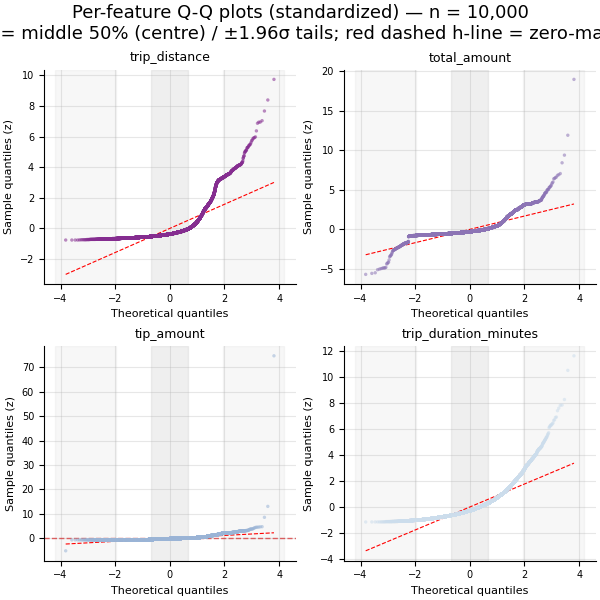
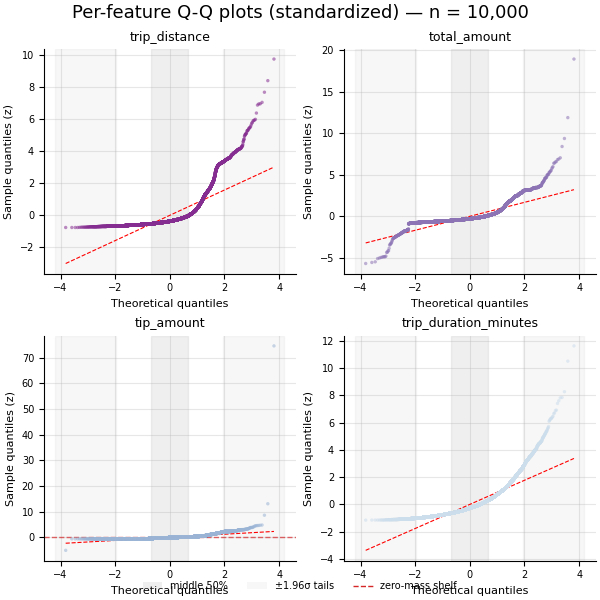
feat(qq): diagnostic zones + symbol legend on all Q-Q surfaces

diff --git a/src/broadway/discover/qq.py b/src/broadway/discover/qq.py
@@ -19,6 +19,8 @@ import matplotlib
 matplotlib.use("Agg")  # headless; set before pyplot import
 import matplotlib.colors
 import matplotlib.pyplot as plt
+from matplotlib.lines import Line2D
+from matplotlib.patches import Patch
 import numpy as np
 import pandas as pd
 from pydantic import BaseModel, ConfigDict
@@ -115,6 +117,39 @@ def _grid_dims(n: int) -> tuple[int, int]:
     return n_rows, n_cols
 
 
+def draw_qq_zones(ax, zones: QqZonesConfig, zero_rate: float | None, draw_shelf: bool = True) -> bool:
+    """Draw central/tail bands and (optionally) the zero-mass shelf. Return True if a shelf was drawn."""
+    if not zones.enabled:
+        return False
+    xmin, xmax = ax.get_xlim()
+    ymin, ymax = ax.get_ylim()
+    ax.axvspan(xmin, -zones.tail_threshold, color=zones.zone_color, alpha=zones.tail_alpha, zorder=0)
+    ax.axvspan(zones.tail_threshold, xmax, color=zones.zone_color, alpha=zones.tail_alpha, zorder=0)
+    ax.axvspan(stats.norm.ppf(zones.central_quantiles[0]), stats.norm.ppf(zones.central_quantiles[1]), color=zones.zone_color, alpha=zones.central_alpha, zorder=0)
+    if draw_shelf and zero_rate is not None and zero_rate > zones.zero_mass_threshold and ymin <= 0 <= ymax:
+        ax.axhline(y=0, color=zones.shelf_color, linestyle="--", linewidth=1, alpha=0.7, zorder=2)
+        return True
+    return False
+
+
+def build_qq_legend_handles(zones: QqZonesConfig, any_shelf: bool) -> list:
+    mid = int((zones.central_quantiles[1] - zones.central_quantiles[0]) * 100)
+    handles = [
+        Patch(facecolor=zones.zone_color, alpha=zones.central_alpha, label=f"middle {mid}%"),
+        Patch(facecolor=zones.zone_color, alpha=zones.tail_alpha, label=f"±{zones.tail_threshold}σ tails"),
+    ]
+    if any_shelf:
+        handles.append(Line2D([0], [0], color=zones.shelf_color, linestyle="--", linewidth=1, label="zero-mass shelf"))
+    return handles
+
+
+def attach_qq_legend(fig, zones: QqZonesConfig, any_shelf: bool) -> None:
+    if not zones.enabled:
+        return
+    handles = build_qq_legend_handles(zones, any_shelf)
+    fig.legend(handles=handles, loc="lower center", ncol=len(handles), fontsize=viz.TICK_FONTSIZE, frameon=False)
+
+
 def _plot_chunk(
     traces: list[tuple[str, np.ndarray, np.ndarray, float, float, float | None]],
     out_path: Path,
@@ -136,6 +171,7 @@ def _plot_chunk(
         layout="constrained",
     )
     ax_flat = axes.ravel()
+    any_shelf = False
     for color, ax, (name, osm, osr, slope, intercept, zero_rate) in zip(colors, ax_flat, traces):
         ax.scatter(
             osm, osr,
@@ -145,8 +181,6 @@ def _plot_chunk(
             color=color,
             zorder=3,
         )
-        xmin, xmax = ax.get_xlim()
-        ymin, ymax = ax.get_ylim()
         xs = np.array([osm.min(), osm.max()])
         ax.plot(
             xs, slope * xs + intercept,
@@ -155,29 +189,7 @@ def _plot_chunk(
             linewidth=viz.QQ_REF_LINE_WIDTH,
             zorder=2,
         )
-        if zones.enabled:
-            ax.axvspan(
-                xmin, -zones.tail_threshold,
-                color=zones.zone_color, alpha=zones.tail_alpha, zorder=0,
-            )
-            ax.axvspan(
-                zones.tail_threshold, xmax,
-                color=zones.zone_color, alpha=zones.tail_alpha, zorder=0,
-            )
-            ax.axvspan(
-                stats.norm.ppf(zones.central_quantiles[0]),
-                stats.norm.ppf(zones.central_quantiles[1]),
-                color=zones.zone_color, alpha=zones.central_alpha, zorder=0,
-            )
-            if (
-                zero_rate is not None
-                and zero_rate > zones.zero_mass_threshold
-                and ymin <= 0 <= ymax
-            ):
-                ax.axhline(
-                    y=0, color=zones.shelf_color,
-                    linestyle="--", linewidth=1, alpha=0.7, zorder=2,
-                )
+        any_shelf = draw_qq_zones(ax, zones, zero_rate) or any_shelf
         ax.set_xlabel(viz.QQ_XLABEL, fontsize=viz.LABEL_FONTSIZE)
         ax.set_ylabel(viz.QQ_YLABEL, fontsize=viz.LABEL_FONTSIZE)
         ax.set_title(name, fontsize=viz.TITLE_FONTSIZE)
@@ -186,12 +198,11 @@ def _plot_chunk(
         viz.despine(ax)
     for ax in ax_flat[n:]:
         ax.set_visible(False)
+    attach_qq_legend(fig, zones, any_shelf)
     title = "Per-feature Q-Q plots (standardized)"
     if n_figs > 1:
         title += f" - figure {fig_num} of {n_figs}"
     title += f" — n = {n_rows:,}"
-    mid = int((zones.central_quantiles[1] - zones.central_quantiles[0]) * 100)
-    title += f"\nshaded = middle {mid}% (centre) / ±{zones.tail_threshold}σ tails; red dashed h-line = zero-mass shelf"
     fig.suptitle(title, fontsize=viz.SUPTITLE_FONTSIZE)
     fig.savefig(out_path, dpi=dpi)
     plt.close(fig)

diff --git a/src/broadway/timeline/runners.py b/src/broadway/timeline/runners.py
@@ -18,6 +18,7 @@ from broadway.analysis.contracts import AnalysisContract
 from broadway.config.schema import PipelineConfig
 from broadway.config.viz import load_viz_config
 from broadway.data.loader import canonical_path
+from broadway.discover.qq import attach_qq_legend, draw_qq_zones
 from broadway.lineage.models import SampleSpec
 from broadway.reports.results import humanize_float, humanize_pvalue
 from broadway.stats.anova import run_anova, run_kruskal, run_welch
@@ -191,6 +192,7 @@ def _plot_qq_joint(
     if max_groups is None:
         max_groups = load_walkthrough_config().max_qq_groups
     viz_cfg = load_viz_config()
+    zones = viz_cfg.qq_zones
     names = list(groups)[:max_groups]
     n = len(names)
     n_cols = max(1, int(np.ceil(np.sqrt(n))))
@@ -205,6 +207,7 @@ def _plot_qq_joint(
     )
     ax_flat = axes.ravel()
     skipped: list[str] = []
+    any_shelf = False
     plotted = 0
     total = 0
     for name in names:
@@ -224,6 +227,7 @@ def _plot_qq_joint(
             alpha=viz.QQ_SCATTER_ALPHA,
             edgecolor=viz.QQ_SCATTER_EDGE_COLOR,
             color=colors[plotted],
+            zorder=3,
         )
         xs = np.array([osm.min(), osm.max()])
         ax.plot(
@@ -232,7 +236,9 @@ def _plot_qq_joint(
             color=viz.QQ_REF_LINE_COLOR,
             linestyle=viz.QQ_REF_LINE_STYLE,
             linewidth=viz.QQ_REF_LINE_WIDTH,
+            zorder=2,
         )
+        any_shelf = draw_qq_zones(ax, zones, None, draw_shelf=False) or any_shelf
         ax.set_xlabel(viz.QQ_XLABEL, fontsize=viz.LABEL_FONTSIZE)
         ax.set_ylabel(viz.QQ_YLABEL, fontsize=viz.LABEL_FONTSIZE)
         ax.set_title(name, fontsize=viz.TITLE_FONTSIZE)
@@ -252,7 +258,8 @@ def _plot_qq_joint(
         f"Per-group Q-Q plots (per-group standardization) — n = {total:,}",
         fontsize=viz.SUPTITLE_FONTSIZE,
     )
-    fig.savefig(out_path, dpi=viz_cfg.dpi, bbox_inches="tight")
+    attach_qq_legend(fig, zones, any_shelf)
+    fig.savefig(out_path, dpi=viz_cfg.dpi)
     plt.close(fig)
     return plotted
 

diff --git a/tests/test_qq.py b/tests/test_qq.py
@@ -704,7 +704,27 @@ def test_qq_zero_mass_shelf_backward_compat(tmp_path, monkeypatch) -> None:
     assert len(ax.lines) == 1
 
 
-def test_qq_zones_not_on_joint(tmp_path, monkeypatch) -> None:
+def test_qq_figure_legend(tmp_path, monkeypatch) -> None:
+    import broadway.discover.qq as qq_module
+
+    zones = load_viz_config().qq_zones
+    captured: list = []
+    monkeypatch.setattr(qq_module.plt, "close", lambda fig: captured.append(fig))
+
+    shelf_trace = ("f", np.array([-1.0, 0.0, 1.0]), np.array([-1.0, 0.0, 1.0]), 1.0, 0.0, 0.5)
+    _plot_chunk([shelf_trace], tmp_path / "legend_shelf.png", 1, 1, 3.0, 100, "BuPu_r", 10000, zones)
+    fig = captured[-1]
+    assert len(fig.legends) == 1
+    assert len(fig.legends[0].legend_handles) == 3
+
+    no_shelf_trace = ("f", np.array([-1.0, 0.0, 1.0]), np.array([-1.0, 0.0, 1.0]), 1.0, 0.0, 0.0)
+    _plot_chunk([no_shelf_trace], tmp_path / "legend_no_shelf.png", 1, 1, 3.0, 100, "BuPu_r", 10000, zones)
+    fig = captured[-1]
+    assert len(fig.legends) == 1
+    assert len(fig.legends[0].legend_handles) == 2
+
+
+def test_qq_zones_on_joint(tmp_path, monkeypatch) -> None:
     import broadway.timeline.runners as runners_module
 
     rng = np.random.default_rng(0)
@@ -714,8 +734,10 @@ def test_qq_zones_not_on_joint(tmp_path, monkeypatch) -> None:
     runners._plot_qq_joint(groups, tmp_path / "joint.png")
     fig = captured[-1]
     for ax in fig.axes:
-        assert len(ax.patches) == 0
-        assert len(ax.lines) == (1 if ax.get_visible() else 0)
+        if ax.get_visible():
+            assert len(ax.patches) >= 2
+    assert len(fig.legends) == 1
+    assert len(fig.legends[0].legend_handles) == 2
 
 
 def test_dist_subplot_titles_are_feature_names_only(tmp_path, monkeypatch) -> None:
